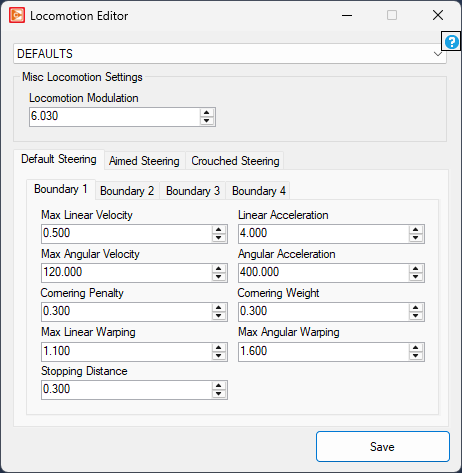
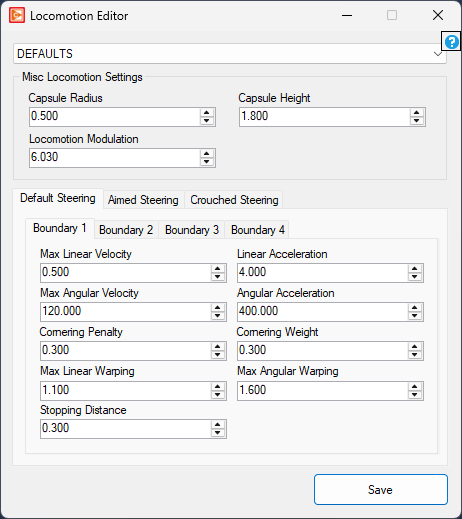
add capsule

diff --git a/docs/configs/locomotion/index.html b/docs/configs/locomotion/index.html
@@ -111,6 +111,22 @@
 		<h2 class="section-heading">Misc Locomotion Settings</h2>
 		<ul>
 			<li>
+				<code style="background:#8e1073;color:white;">Capsule Radius</code>
+				<code style="background:#412b69;color:white;">float</code>
+				<code style="background:#412b69;color:white;">Minimum: 0.01</code>
+				<code style="background:#412b69;color:white;">Maximum: 10.0</code>
+			</li>
+			<ul><li>Defines the character capsule radius in metres when steering.</li></ul>
+
+			<li>
+				<code style="background:#8e1073;color:white;">Capsule Height</code>
+				<code style="background:#412b69;color:white;">float</code>
+				<code style="background:#412b69;color:white;">Minimum: 0.01</code>
+				<code style="background:#412b69;color:white;">Maximum: 20.0</code>
+			</li>
+			<ul><li>Defines the character capsule height in metres when steering.</li></ul>
+		
+			<li>
 				<code style="background:#8e1073;color:white;">Locomotion Modulation</code>
 				<code style="background:#412b69;color:white;">float</code>
 				<code style="background:#412b69;color:white;">Minimum: 0</code>